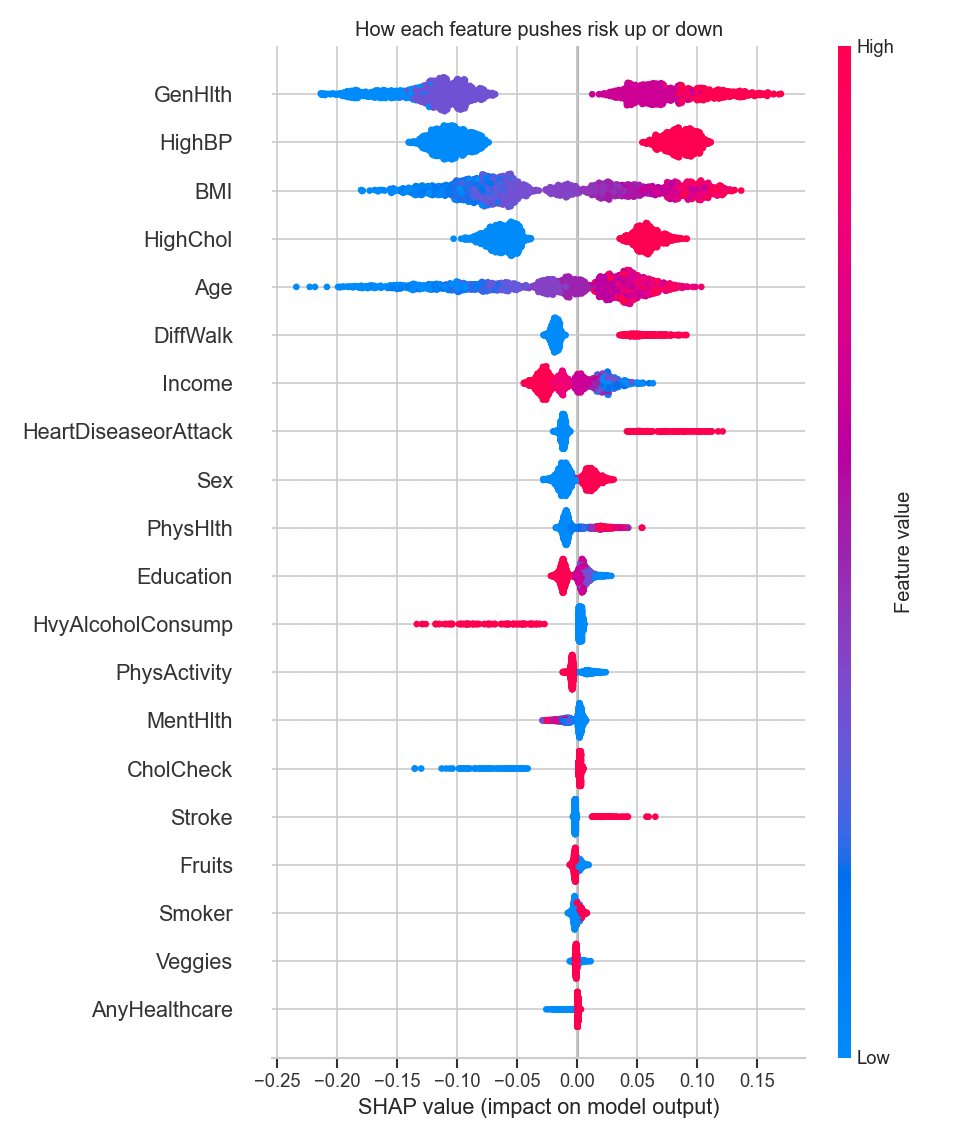
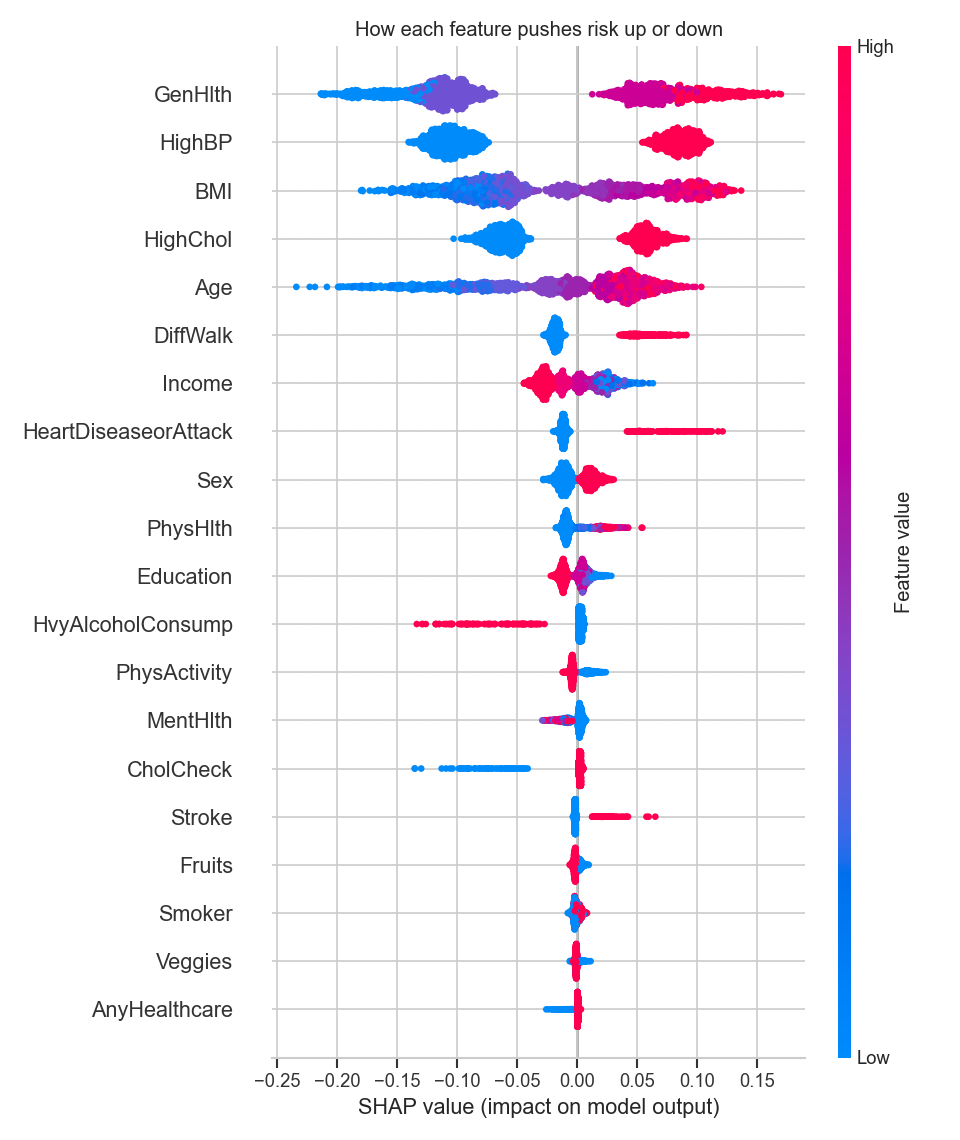
Remove em/en dashes; regenerate figures and report

diff --git a/make_full_report.py b/make_full_report.py
@@ -93,10 +93,10 @@ story.append(bullets([
     f"baseline was close behind (ROC-AUC {lr['roc_auc']:.2f}).",
     f"At an F1-optimal threshold ({m['chosen_threshold']:.2f}), the model identifies "
     f"<b>{cr['Diabetes']['recall']*100:.0f}% of true diabetes cases</b> (recall) at "
-    f"{cr['Diabetes']['precision']*100:.0f}% precision — a recall-leaning operating point "
+    f"{cr['Diabetes']['precision']*100:.0f}% precision, a recall-leaning operating point "
     "appropriate for screening.",
     "SHAP shows the strongest drivers are <b>general health, high blood pressure, BMI, high "
-    "cholesterol and age</b> — consistent with the clinical literature, indicating the model "
+    "cholesterol and age</b>, consistent with the clinical literature, indicating the model "
     "learned genuine signal rather than noise.",
     "The raw probabilities are <b>over-confident</b> (a side effect of class weighting); the "
     "rank-ordering is reliable, but probability calibration is recommended before any "
@@ -112,8 +112,8 @@ story.append(P(
     "help prioritise confirmatory testing and lifestyle intervention."))
 story.append(P(
     "<b>Objective:</b> build a model that predicts whether an adult has diabetes from routine "
-    "indicators, evaluate it honestly given the class imbalance, and — crucially for a health "
-    "setting — explain <i>why</i> it makes each prediction so that the output can be "
+    "indicators, evaluate it honestly given the class imbalance, and, crucially for a health "
+    "setting, explain <i>why</i> it makes each prediction so that the output can be "
     "scrutinised rather than trusted blindly."))
 
 # ---------- 2. DATA ----------
@@ -146,7 +146,7 @@ story.append(P(
     "Before modelling, the relationships between features and the target were examined. "
     "Respondents with diabetes tend to have higher BMI, poorer self-rated general health "
     "(higher values denote worse health), older age, and a greater prevalence of high blood "
-    "pressure — all directions expected from clinical knowledge."))
+    "pressure, all directions expected from clinical knowledge."))
 story += figure(FIG / "02_features_by_target.png",
                 "Figure 2. Distribution of key features by diabetes status (No vs. Yes). "
                 "Clear separation in BMI, general health, age and blood pressure.", max_h=2.6*inch)
@@ -154,7 +154,7 @@ story.append(P(
     "Ranking each feature by its linear correlation with the target reinforces this picture: "
     "general health, high blood pressure, BMI, difficulty walking, high cholesterol and age "
     "are the strongest positive correlates, while income, education and physical activity are "
-    "negatively associated with diabetes — echoing the well-documented social gradient in "
+    "negatively associated with diabetes, echoing the well-documented social gradient in "
     "chronic disease."))
 story += figure(FIG / "03_feature_correlation.png",
                 "Figure 3. Correlation of each feature with the diabetes target. "
@@ -170,9 +170,9 @@ story.append(P(
     "requires no scaling."))
 story.append(H2("4.2 Models"))
 story.append(bullets([
-    "<b>Logistic regression</b> (baseline) — interpretable linear model, with "
+    "<b>Logistic regression</b> (baseline), interpretable linear model, with "
     "<i>class_weight = balanced</i> to counter the imbalance.",
-    "<b>Random forest</b> — 300 trees, max depth 12, minimum 20 samples per leaf, also "
+    "<b>Random forest</b>, 300 trees, max depth 12, minimum 20 samples per leaf, also "
     "class-weighted. Captures non-linearities and feature interactions."]))
 story.append(H2("4.3 Evaluation strategy"))
 story.append(P(
@@ -268,7 +268,7 @@ story += figure(FIG / "08_shap_beeswarm.png",
 story.append(H1("6. Discussion"))
 story.append(P(
     "Three findings stand out. First, <b>self-rated general health is the single most powerful "
-    "predictor</b> — a one-question, zero-cost signal that rivals clinical measurements, which "
+    "predictor</b>, a one-question, zero-cost signal that rivals clinical measurements, which "
     "is valuable for low-resource screening. Second, the <b>logistic model nearly matches the "
     "random forest</b>, so a fully transparent linear model is a defensible deployment choice "
     "where interpretability or auditability is paramount. Third, the performance level "
@@ -280,7 +280,7 @@ story.append(H1("7. Limitations and responsible use"))
 story.append(bullets([
     "<b>Self-reported survey data</b> carries recall and social-desirability bias; BMI, "
     "diagnoses and behaviours are not clinically verified.",
-    "<b>Cross-sectional design</b> means the model captures association, not causation — it "
+    "<b>Cross-sectional design</b> means the model captures association, not causation, it "
     "cannot say that changing a factor will change risk.",
     "<b>Population and era specific</b> (US adults, 2015); performance may not transfer to "
     "other countries or healthcare systems without revalidation.",
@@ -295,7 +295,7 @@ story.append(H1("8. Conclusion"))
 story.append(P(
     "This project delivers an explainable, honestly-evaluated diabetes risk model. The random "
     f"forest discriminates well (ROC-AUC {rf['roc_auc']:.2f}, PR-AUC {rf['pr_auc']:.2f}) and, at "
-    f"a recall-leaning threshold, catches {cr['Diabetes']['recall']*100:.0f}% of true cases — "
+    f"a recall-leaning threshold, catches {cr['Diabetes']['recall']*100:.0f}% of true cases, "
     "an operating point suited to screening. SHAP confirms the model relies on clinically "
     "coherent factors, and the analysis is transparent about its weaknesses, notably "
     "probability calibration. Clear next steps are probability calibration, tuning the decision "

diff --git a/analysis.py b/analysis.py
@@ -1,5 +1,5 @@
 """
-Diabetes Risk Prediction — end-to-end analysis
+Diabetes Risk Prediction, end-to-end analysis
 ================================================
 Predicts diabetes risk from health & lifestyle indicators (CDC BRFSS 2015),
 then explains the model with SHAP.
@@ -56,7 +56,7 @@ metrics["prevalence"] = round(float(y.mean()), 4)
 # ---------------------------------------------------------------------------
 # 2. EDA
 # ---------------------------------------------------------------------------
-# 2a. Class balance — important: the data is imbalanced, so accuracy alone lies.
+# 2a. Class balance, important: the data is imbalanced, so accuracy alone lies.
 plt.figure(figsize=(5, 4))
 ax = sns.countplot(x=y, palette=["#9aa6b2", "#e31a1c"])
 ax.set_xticklabels(["No diabetes", "Diabetes"])
@@ -135,7 +135,7 @@ for name, r in results.items():
 a1.plot([0, 1], [0, 1], "k--", lw=1); a1.set(xlabel="False positive rate",
         ylabel="True positive rate", title="ROC curve"); a1.legend()
 a2.axhline(y_test.mean(), ls="--", c="k", lw=1, label=f"baseline ({y_test.mean():.2f})")
-a2.set(xlabel="Recall", ylabel="Precision", title="Precision–Recall curve"); a2.legend()
+a2.set(xlabel="Recall", ylabel="Precision", title="Precision-Recall curve"); a2.legend()
 plt.tight_layout(); plt.savefig(OUT / "04_roc_pr_curves.png", dpi=120); plt.close()
 
 # 5b. Choose a threshold that prioritises catching cases (recall) for screening.
@@ -154,10 +154,10 @@ metrics["classification_report"] = classification_report(
 ConfusionMatrixDisplay(confusion_matrix(y_test, pred),
                        display_labels=["No diabetes", "Diabetes"]).plot(
     cmap="Reds", colorbar=False)
-plt.title(f"{best_name} — confusion matrix (thr={best_thr:.2f})")
+plt.title(f"{best_name}, confusion matrix (thr={best_thr:.2f})")
 plt.tight_layout(); plt.savefig(OUT / "05_confusion_matrix.png", dpi=120); plt.close()
 
-# 5d. Calibration — are predicted probabilities trustworthy?
+# 5d. Calibration, are predicted probabilities trustworthy?
 frac_pos, mean_pred = calibration_curve(y_test, best["proba"], n_bins=10)
 plt.figure(figsize=(6, 5))
 plt.plot([0, 1], [0, 1], "k--", label="perfectly calibrated")
@@ -167,7 +167,7 @@ plt.title("Calibration curve"); plt.legend()
 plt.tight_layout(); plt.savefig(OUT / "06_calibration.png", dpi=120); plt.close()
 
 # ---------------------------------------------------------------------------
-# 6. EXPLAINABILITY (SHAP) — why does the model predict risk?
+# 6. EXPLAINABILITY (SHAP), why does the model predict risk?
 # ---------------------------------------------------------------------------
 import shap
 print("\nComputing SHAP values (sampled) ...")
@@ -184,7 +184,7 @@ shap.summary_plot(sv1, X_shap, plot_type="bar", show=False)
 plt.title("Global feature importance (mean |SHAP|)")
 plt.tight_layout(); plt.savefig(OUT / "07_shap_importance.png", dpi=120); plt.close()
 
-# 6b. Beeswarm — direction & magnitude of each feature's effect
+# 6b. Beeswarm, direction & magnitude of each feature's effect
 plt.figure()
 shap.summary_plot(sv1, X_shap, show=False)
 plt.title("How each feature pushes risk up or down")

diff --git a/README.md b/README.md
@@ -5,7 +5,7 @@ routine health and lifestyle indicators, then **explains every prediction** with
 SHAP. Built on the CDC's BRFSS survey of **253,680 US adults**.
 
 > **Why it matters:** a screening model is only useful in healthcare if clinicians
-> can *trust and interpret* it. This project goes beyond accuracy — it handles
+> can *trust and interpret* it. This project goes beyond accuracy, it handles
 > class imbalance honestly, checks probability calibration, and uses SHAP to show
 > exactly which factors drive each person's risk.
 
@@ -19,31 +19,31 @@ SHAP. Built on the CDC's BRFSS survey of **253,680 US adults**.
 | **Random Forest** (best) | **0.827** | **0.421** |
 
 At a recall-tuned decision threshold (0.61), the model **flags ~62% of true
-diabetes cases** — useful for a screening tool, where missing a case is costlier
+diabetes cases**, useful for a screening tool, where missing a case is costlier
 than a false alarm.
 
 *Diabetes prevalence in the data is ~14%, so the model is evaluated with
 **PR-AUC** (0.42 vs. a 0.14 random baseline), **calibration**, and a recall-focused
-threshold — not accuracy, which is misleading on imbalanced data.*
+threshold, not accuracy, which is misleading on imbalanced data.*
 
 ### What the model learned (SHAP)
 ![SHAP importance](outputs/07_shap_importance.png)
 ![SHAP beeswarm](outputs/08_shap_beeswarm.png)
 
 The strongest drivers of predicted risk are general health, high blood pressure,
-BMI, age, and high cholesterol — consistent with the clinical literature, which is
+BMI, age, and high cholesterol, consistent with the clinical literature, which is
 a good sign the model is learning real signal rather than noise.
 
 ---
 
 ## 🎯 What this project demonstrates
 
-- **End-to-end ML workflow** — data → EDA → modelling → evaluation → explainability.
-- **Honest evaluation on imbalanced data** — PR-AUC, calibration curve, and a
+- **End-to-end ML workflow**, data → EDA → modelling → evaluation → explainability.
+- **Honest evaluation on imbalanced data**, PR-AUC, calibration curve, and a
   deliberately chosen decision threshold (not the naive 0.5).
-- **Explainable AI (SHAP)** — global drivers *and* per-patient explanations.
-- **Responsible framing** — clear statement of what the model can and can't be used for.
-- **Reproducibility** — one script regenerates every figure and metric.
+- **Explainable AI (SHAP)**, global drivers *and* per-patient explanations.
+- **Responsible framing**, clear statement of what the model can and can't be used for.
+- **Reproducibility**, one script regenerates every figure and metric.
 
 ## 🗂️ Repository structure
 
@@ -58,7 +58,7 @@ diabetes-risk-prediction/
 
 ## 📦 The data
 
-**CDC Diabetes Health Indicators (BRFSS 2015)** — 253,680 survey responses, 21
+**CDC Diabetes Health Indicators (BRFSS 2015)**, 253,680 survey responses, 21
 features (e.g. HighBP, BMI, GenHlth, Age, PhysActivity, Smoker), binary diabetes
 target. Source: [UCI ML Repository #891](https://archive.ics.uci.edu/dataset/891/cdc+diabetes+health+indicators).
 
@@ -82,4 +82,4 @@ Python · pandas · scikit-learn · SHAP · matplotlib / seaborn
 
 ## 👤 Author
 
-**Kingsley Amegah** — Health Data Scientist · GitHub: [@Kingsley-amg](https://github.com/Kingsley-amg)
+**Kingsley Amegah**, Health Data Scientist · GitHub: [@Kingsley-amg](https://github.com/Kingsley-amg)